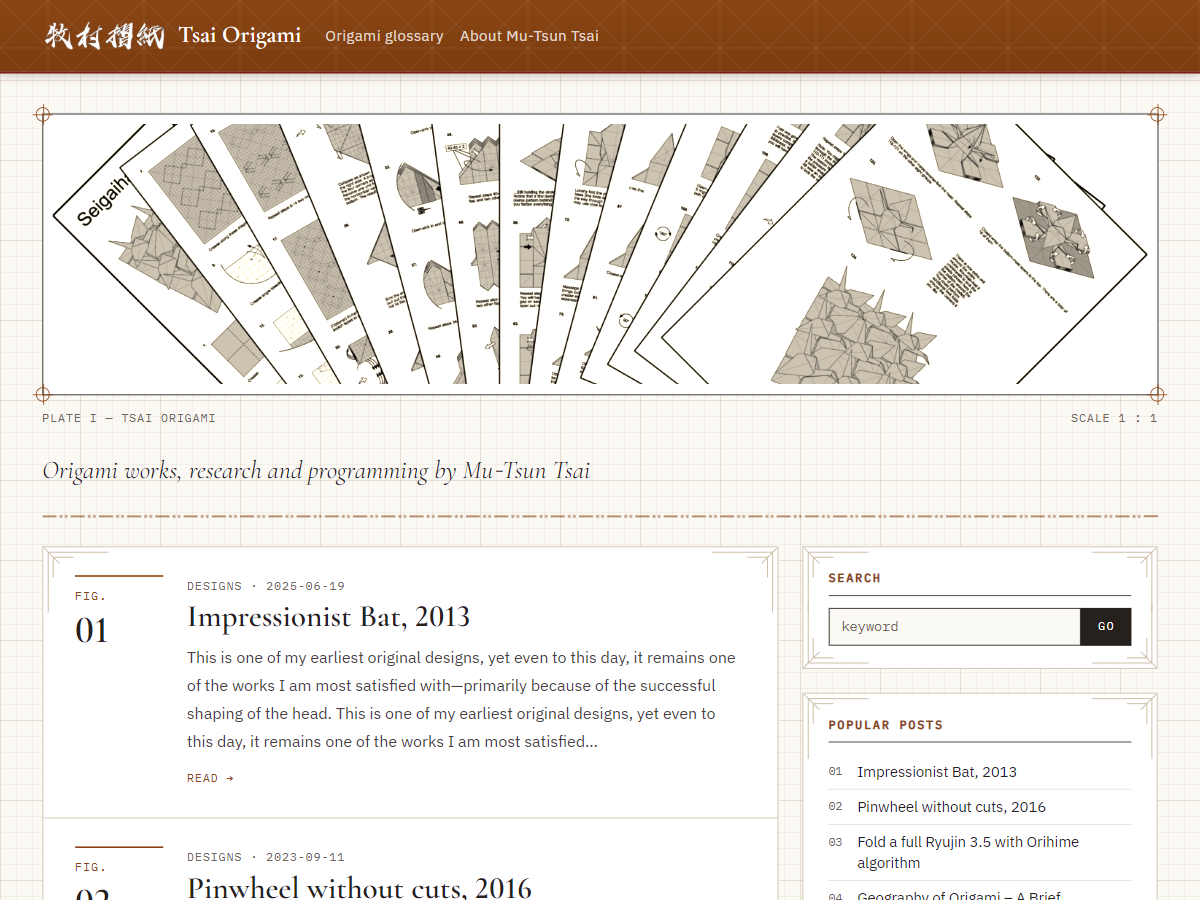
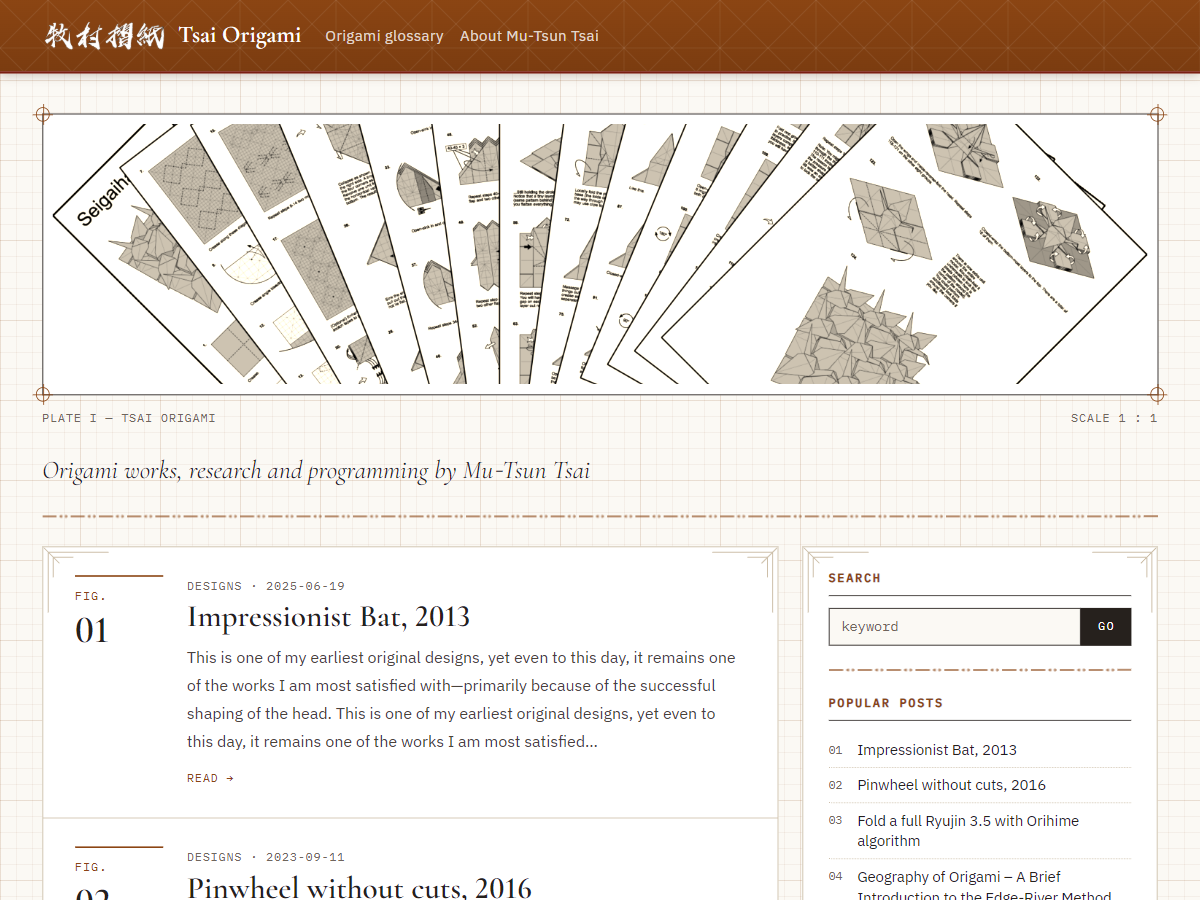
調整版面

Changed region(s): [[0.6783, 0.7156, 0.925, 1.0], [0.8942, 0.7156, 0.9558, 0.7778]]

diff --git a/src/scss/_sidebar.scss b/src/scss/_sidebar.scss
@@ -1,9 +1,23 @@
-// 側欄小工具：每個小工具都是一張卡片，清單加上兩位數編號。
+// 側欄小工具：同一個側欄的小工具共用一張卡片，彼此以山線分隔；清單加上兩位數編號。
 
-.widget {
+.site-sidebar__sheet {
 	margin-bottom: 1.5rem;
 	padding: 1.4rem 1.6rem;
+}
+
+.widget {
 	overflow-wrap: break-word;
+
+	& + & {
+		margin-top: 1.4rem;
+
+		&::before {
+			content: "";
+			display: block;
+			margin-bottom: 1.4rem;
+			@include so-mountain-line;
+		}
+	}
 
 	// .widgettitle：區塊小工具中，WordPress Popular Posts 自己輸出的標題
 	&-title,

diff --git a/src/scss/_footer.scss b/src/scss/_footer.scss
@@ -5,16 +5,6 @@
 
 	&__widgets {
 		margin-bottom: .5rem;
-
-		.widget {
-			padding: 0;
-			background: none;
-			border: 0;
-
-			&::before {
-				content: none;
-			}
-		}
 	}
 
 	.mountain {

diff --git a/theme/sidebar.php b/theme/sidebar.php
@@ -1,6 +1,7 @@
 <?php
 /**
  * 左右側欄。在小螢幕上都排在主要內容之後；左側欄在大螢幕上移到最左邊。
+ * 同一個側欄的小工具共用一張卡片（沿用 simple-bootstrap 的設計），以山線分隔。
  *
  * @package SuperOrigami
  */
@@ -12,12 +13,12 @@ foreach ( array( 'right', 'left' ) as $super_origami_side ) {
 		continue;
 	}
 	printf(
-		'<aside id="sidebar-%1$s" class="site-sidebar %2$s" aria-label="%3$s">',
+		'<aside id="sidebar-%1$s" class="site-sidebar %2$s" aria-label="%3$s"><div class="site-sidebar__sheet sheet">',
 		esc_attr( $super_origami_side ),
 		esc_attr( super_origami_sidebar_column_class( $super_origami_side ) ),
 		esc_attr__( 'Sidebar', 'super-origami' )
 	);
 	dynamic_sidebar( 'sidebar-' . $super_origami_side );
-	echo '</aside>';
+	echo '</div></aside>';
 }
 unset( $super_origami_side );

diff --git a/theme/inc/template-tags.php b/theme/inc/template-tags.php
@@ -154,12 +154,15 @@ function super_origami_pagination() {
 
 /**
  * 頁尾的版權宣告。
+ *
+ * 取代原本頁尾小工具中的「Copyright © 年份 Mu-Tsun Tsai」。年份放在獨立的元素中，
+ * 前後兩段文字才會和原本的字串相同，沿用 TranslatePress 既有的翻譯。
  */
 function super_origami_site_info() {
 	printf(
-		'© %1$s <a href="%2$s">%3$s</a>',
+		'%1$s <span>%2$s</span> %3$s',
+		esc_html__( 'Copyright ©', 'super-origami' ),
 		esc_html( wp_date( 'Y' ) ),
-		esc_url( home_url( '/' ) ),
-		esc_html( get_bloginfo( 'name' ) )
+		'Mu-Tsun Tsai'
 	);
 }

diff --git a/theme/inc/setup.php b/theme/inc/setup.php
@@ -67,7 +67,7 @@ add_action( 'after_setup_theme', 'super_origami_content_width', 0 );
  */
 function super_origami_widgets_init() {
 	$defaults = array(
-		'before_widget' => '<section id="%1$s" class="widget sheet %2$s">',
+		'before_widget' => '<section id="%1$s" class="widget %2$s">',
 		'after_widget'  => '</section>',
 		'before_title'  => '<h2 class="widget-title">',
 		'after_title'   => '</h2>',
